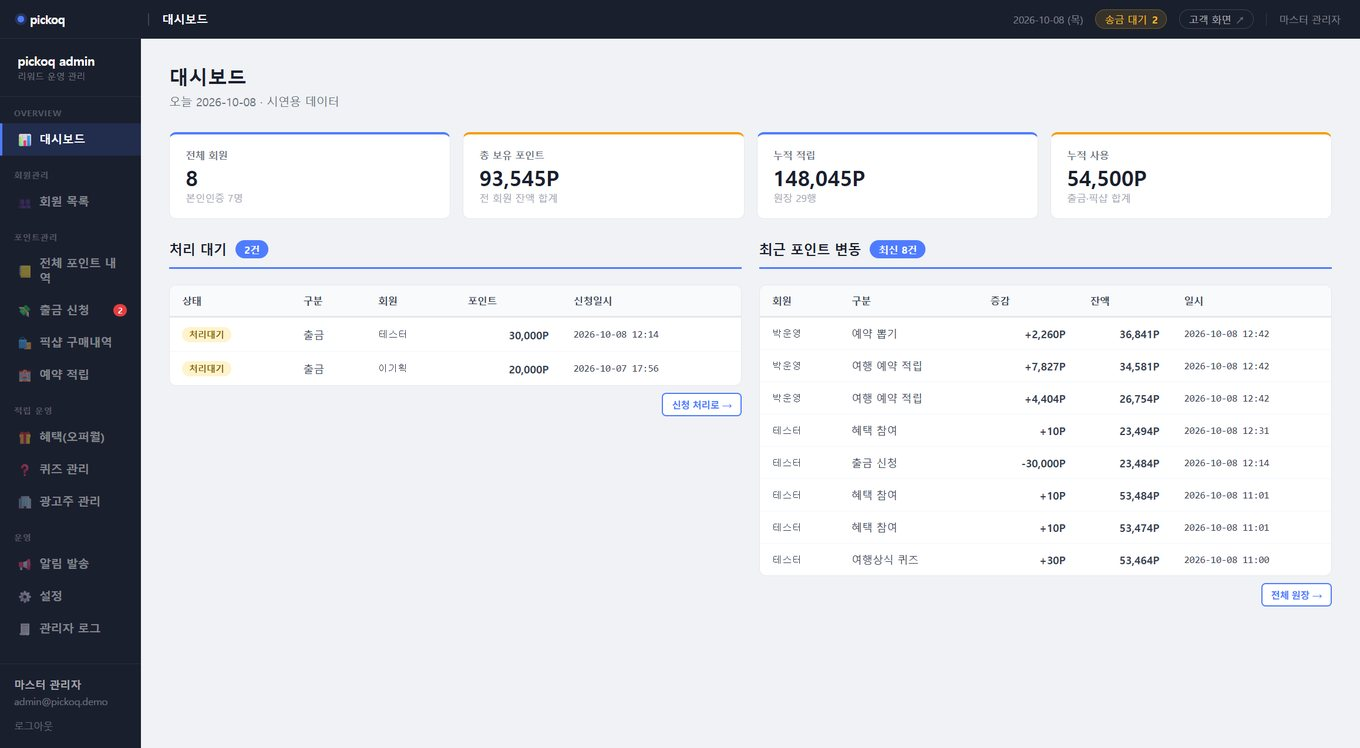
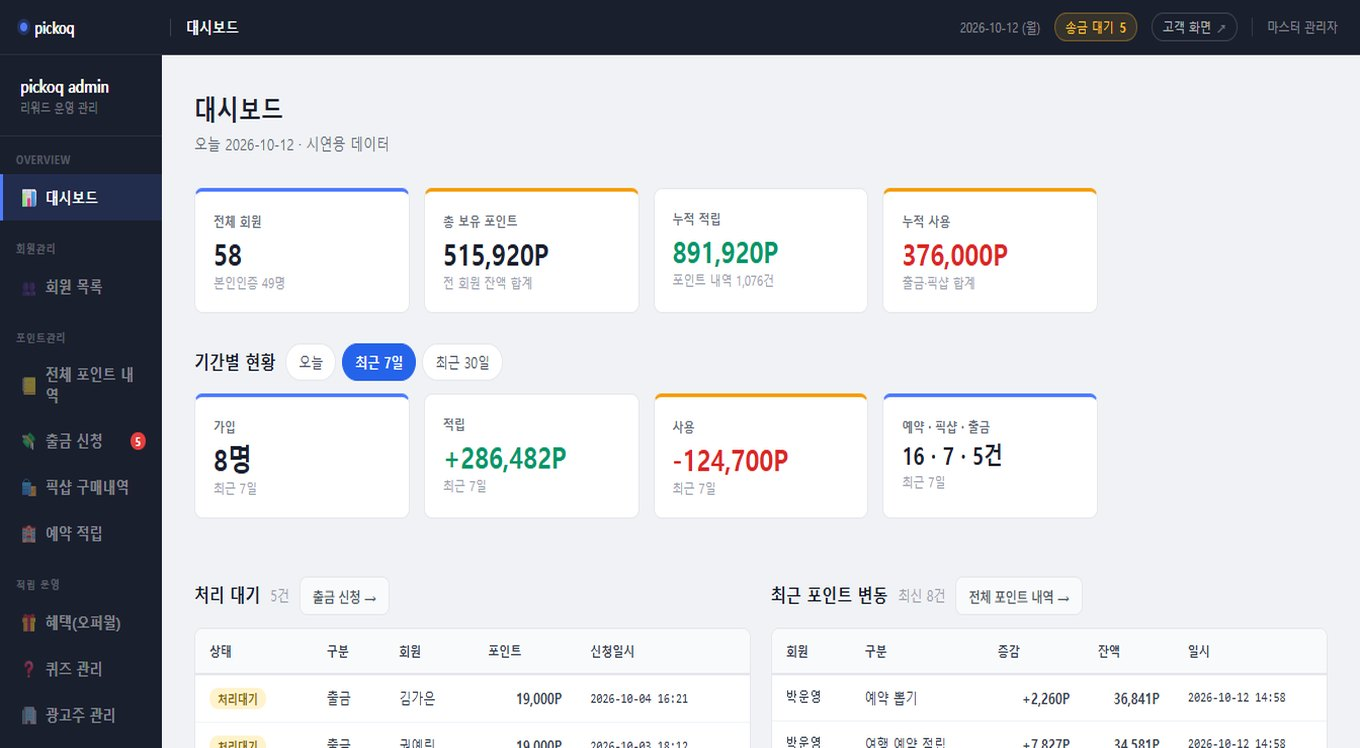
@ update: 어드민 기능정책서 10/12 구현 상태 반영 · 캡처 17장 교체
- 캡처에 남아 있던 계좌번호 가림 (출금 테이블은 치환 대상에서 빠져 있었음)
- 공통 규칙 신설 — 찾기 · 안내 띠 · 요약 3칸 · 불러오는 중
- 출금 반려, 퀴즈 출제여부 3단계, 픽샵 사용완료, 체크인/아웃 반영
- 캡처 a16 로그인 안내 · a17 출금 반려 추가
- 제휴사명을 일반어로 변경
- .gitignore 신설 — DB · API 키가 딸려 올라가지 않도록

@

diff --git a/guide/admin.html b/guide/admin.html
@@ -46,8 +46,8 @@
     고객앱과 마찬가지로 <b>정책</b>과 <b>이유</b>를 함께 담았습니다.
   </p>
   <div class="meta">
-    <span>기준 <b>2026-10-08 구현 상태</b></span>
-    <span>화면 <b>14장</b></span>
+    <span>기준 <b>2026-10-12 구현 상태</b></span>
+    <span>화면 <b>17장</b></span>
     <span>기능 <b>16개</b></span>
     <span>작성 <b>PO 윤성균</b></span>
   </div>
@@ -69,7 +69,39 @@
       <td>아직 정하지 못했습니다.</td></tr>
   </table>
 
-  <h3>② 어드민에서 쓰는 상태값</h3>
+  <h3>② 모든 화면에 공통인 것</h3>
+  <p class="s-lead" style="margin:0 0 14px">
+    아래 네 가지는 <b>거의 모든 화면에 같은 모양으로</b> 들어가 있습니다.
+    화면마다 다시 설명하지 않고 여기에 한 번만 적습니다.
+  </p>
+  <table>
+    <tr><th style="width:150px">무엇</th><th>어떻게 동작하나</th></tr>
+    <tr><td><b>찾기</b></td>
+      <td>왼쪽에 <b>전체 건수</b>, 오른쪽에 <b>찾는 칸</b>이 놓입니다.
+        칸마다 이름이 작게 위에 붙습니다.
+        <b>쳐서 찾는 칸</b>과 <b>골라서 거르는 칸</b>을 나눠 두었고,
+        날짜가 둘 이상인 화면은 <b>어느 날짜로 찾을지 먼저 고른 뒤</b> 달력을 엽니다.
+        조건을 다 고른 다음 <b>[조회]</b>를 눌러야 걸립니다.</td></tr>
+    <tr><td><b>안내 띠</b></td>
+      <td>제목 바로 아래 띠가 하나 붙습니다. 눌러서 펼치면
+        <b>이번 버전에 들어가지 않은 것과 그 이유</b>가 나오고,
+        끝에 이 문서로 오는 링크가 있습니다.
+        공지·참고 사항도 <b>같은 모양</b>으로 통일했습니다.</td></tr>
+    <tr><td><b>요약 세 칸</b></td>
+      <td>화면 위쪽 요약은 어디서나 <b>총 누적 · 사용(나간 것) · 잔여(아직 남은 것)</b>
+        같은 뜻의 세 칸으로 읽습니다. 화면마다 부르는 말은 달라도
+        <b>읽는 방식은 같습니다.</b> 요약은 <b>거르기와 무관하게 전체 기준</b>입니다.</td></tr>
+    <tr><td><b>불러오는 중</b></td>
+      <td>자료를 가져오는 데 <b>0.2초가 넘게 걸릴 때만</b> 자리를 잡는 회색 틀이 나옵니다.
+        그보다 빠르면 아무것도 보이지 않습니다.
+        정말 못 가져온 경우에는 <b>사유와 [다시 시도] 버튼</b>이 나옵니다.</td></tr>
+  </table>
+  <div class="feat-shots wide" style="margin:16px 0 26px">
+    <div class="sw"><a class="shot wide" href="screens/a16_welcome.jpg"><img src="screens/a16_welcome.jpg" alt="로그인 직후 안내 — 이번 버전의 범위를 먼저 알려 줍니다"></a>
+      <div class="cap">로그인하면 먼저 뜨는 안내 — 이번 버전의 범위를 미리 알려 줍니다</div></div>
+  </div>
+
+  <h3>③ 어드민에서 쓰는 상태값</h3>
   <table>
     <tr><th style="width:150px">배지</th><th style="width:190px">어디서</th><th>뜻</th></tr>
     <tr><td><span class="st wait">처리대기</span></td><td>출금 신청</td>
@@ -112,14 +144,22 @@
       <div class="feat-t">오늘의 숫자와 처리 대기</div></div>
     <div class="feat-row"><div class="feat-k">정책</div><div class="feat-v">
       회원 수 · 오늘 적립 · 오늘 사용 · 전체 포인트 잔액을 보여주고,
-      그 아래에 <b>처리하지 않은 출금·픽샵 신청</b>과 <b>최근 예약</b>을 놓습니다.
+      그 아래에 <b>처리하지 않은 출금·픽샵 신청</b>과
+      <b>최근 포인트 내역 · 픽샵 구매 · 예약 적립</b>을 놓습니다.
+      목록은 모두 <b>8건씩</b>으로 맞췄습니다.
       왼쪽 메뉴의 「출금 신청」에는 <b>대기 건수가 빨간 숫자</b>로 붙습니다.
+      <ul>
+        <li><b>기간을 바꿔 볼 수 있습니다</b> — <b>최근 1일 · 7일 · 30일</b>.
+          적립·사용·신규 회원이 그 기간 기준으로 다시 계산됩니다.</li>
+      </ul>
     </div></div>
     <div class="feat-row"><div class="feat-k why">이유</div><div class="feat-v">
       운영자가 매일 아침 확인해야 하는 것은 두 가지입니다.
       <b>전일 집행 비용</b>과 <b>미처리 건의 유무</b>입니다.
       이 두 가지를 확인하기 위해 여러 메뉴를 거쳐야 한다면 누락이 발생합니다.
       <b>대기 건수를 메뉴에 붙인 것</b>도 같은 이유입니다 — 메뉴에 진입하지 않아도 확인할 수 있습니다.
+      <b>기간 선택을 둔 것</b>은 하루치만 보면 그날이 많은 날인지 적은 날인지 알 수 없기 때문입니다.
+      <b>비교할 기준이 있어야 숫자가 뜻을 갖습니다.</b>
     </div></div>
     <div class="feat-shots wide">
       <div class="sw"><a class="shot wide" href="screens/a01_dash.jpg"><img src="screens/a01_dash.jpg" alt="대시보드 — 오늘의 숫자 · 처리 대기 · 최근 예약"></a>
@@ -266,7 +306,10 @@
       <div class="feat-t">찾아보기</div></div>
     <div class="feat-row"><div class="feat-k">정책</div><div class="feat-v">
       <b>유형별로 거르고</b>(출석·퀴즈·혜택·예약·뽑기·친구 추천·출금·픽샵·관리자 지급·소멸),
-      회원 이메일이나 내용으로 검색할 수 있습니다. 페이지를 나눠 보여줍니다.
+      회원 이메일이나 내용으로 찾을 수 있습니다.
+      <b>기간</b>도 달력으로 지정할 수 있고, 어느 날짜(일시 / 소멸예정)를 기준으로
+      볼지 먼저 고릅니다. 페이지를 나눠 보여줍니다.
+      위쪽 요약은 <b>총 적립 · 총 사용 · 현재 잔액</b> 세 칸입니다.
       이 화면은 <b>보기만 하고 고치지 않습니다.</b>
     </div></div>
     <div class="feat-row"><div class="feat-k why">이유</div><div class="feat-v">
@@ -293,7 +336,11 @@
     <div class="feat-row"><div class="feat-k">정책</div><div class="feat-v">
       <ul>
         <li>문항 · 정답(O/X) · 해설을 등록합니다. 현재 <b>55문항</b>이 들어 있습니다.</li>
-        <li><b>출제여부</b>를 켜고 끌 수 있습니다. 끈 문항은 나오지 않습니다.</li>
+        <li><b>출제여부</b>를 <b>세 단계</b>로 봅니다 —
+          <b>대기</b>(켜 두었지만 아직 한 번도 안 나감) ·
+          <b>출제중</b>(켜져 있고 나간 적 있음) ·
+          <b>출제완료</b>(꺼 두어 더 이상 안 나감).
+          켜고 끄는 것은 운영자가 합니다.</li>
         <li>문항마다 <b>광고 링크</b>를 붙일 수 있습니다. 해설 아래에 버튼으로 나옵니다.</li>
         <li>엑셀 양식을 받아 <b>한 번에 여러 문항을 올릴</b> 수 있습니다.</li>
         <li>매일 켜져 있는 문항 중 <b>3개를 무작위로</b> 뽑고, 한 번 낸 문제는 당분간 제외합니다.</li>
@@ -302,7 +349,11 @@
     <div class="feat-row"><div class="feat-k why">이유</div><div class="feat-v">
       퀴즈는 <b>자사 비용이 발생하는 기능</b>입니다. 문항이 소진되면 기능이 중단되므로
       운영자가 계속 채울 수 있어야 합니다. 엑셀 업로드를 둔 것도 그래서입니다.<br>
-      <b>문항에 광고를 붙일 수 있게 한 것</b>은, 비용만 발생하는 기능에서 일부라도 수익을 확보하기 위해서입니다.
+      <b>문항에 광고를 붙일 수 있게 한 것</b>은, 비용만 발생하는 기능에서 일부라도 수익을 확보하기 위해서입니다.<br>
+      <b>출제여부를 세 단계로 나눈 것</b>은 켜짐/꺼짐 두 가지로는
+      <b>「한 번이라도 나갔나」</b>밖에 알 수 없기 때문입니다.
+      운영자가 실제로 알고 싶은 것은 <b>아직 안 쓴 새 문항이 얼마나 남았는지</b>와
+      <b>지금 돌고 있는 문항이 몇 개인지</b>입니다.
       <div class="note blue" style="margin-top:10px">
         <b>10/07 운영 방침 변경</b> — 재응시를 폐지해 결과를 <b>0~30P</b>로 두고,
         문항마다 <b>광고를 연결</b>할 수 있도록 했습니다.
@@ -395,14 +446,19 @@
       <div class="feat-t">출금 신청 — 실제 자금이 지출됩니다</div></div>
     <div class="feat-row"><div class="feat-k">정책</div><div class="feat-v">
       신청이 접수되면 <b>포인트는 즉시 차감됩니다.</b> 목록에서 회원·금액·계좌를 확인하고
-      송금한 뒤 <b>[지급완료]</b>를 누릅니다.
+      송금한 뒤 <b>[지급하기]</b>를 누릅니다. 처리대기 건에는 <b>[반려]</b> 버튼도 함께 나옵니다.
       <ul>
-        <li>승인/반려를 고르는 절차는 없습니다. <b>[지급완료]만</b> 있습니다.</li>
+        <li>사전 승인 단계는 없습니다. 처리대기 건을
+          <b>[지급하기]</b> 또는 <b>[반려]</b> 둘 중 하나로 끝냅니다.</li>
         <li><b>사람이 누르는 것은 시연이기 때문입니다.</b>
           실제 운영에서는 <b>송금을 자동으로</b> 처리하고, 어드민은 결과를 확인하는 자리로 바뀝니다
           <span class="ev talk">협의 대상</span>.</li>
-        <li>문제가 있어 되돌려야 하면 <b>반려</b>로 처리하고, 포인트는 <b>자동으로 돌아갑니다.</b></li>
-        <li>지급완료로 바꾸면 고객에게 알림이 갑니다.</li>
+        <li><b>반려할 때는 사유를 고릅니다</b> — 「고객 요청으로 취소」 ·
+          「예금주 이름이 계좌와 다름」 · 「계좌번호 확인 필요」 ·
+          「본인 명의 계좌가 아님」, 그리고 직접 입력.
+          고른 사유는 <b>목록에도 남고 고객에게도 그대로 전달</b>됩니다.</li>
+        <li>반려하면 차감했던 포인트가 <b>회원에게 바로 돌아갑니다.</b></li>
+        <li>지급하기·반려 모두 고객에게 알림이 갑니다.</li>
       </ul>
     </div></div>
     <div class="feat-row"><div class="feat-k why">이유</div><div class="feat-v">
@@ -412,8 +468,10 @@
       대신 <b>송금이라는 실제 행위가 남아 있어</b> 그것을 기록하는 버튼만 둡니다.
     </div></div>
     <div class="feat-shots wide">
-      <div class="sw"><a class="shot wide" href="screens/a05_withdrawals.jpg"><img src="screens/a05_withdrawals.jpg" alt="계좌를 확인하고 송금한 뒤 [지급완료]"></a>
-        <div class="cap">계좌를 확인하고 송금한 뒤 [지급완료]</div></div>
+      <div class="sw"><a class="shot wide" href="screens/a05_withdrawals.jpg"><img src="screens/a05_withdrawals.jpg" alt="계좌를 확인하고 송금한 뒤 [지급하기]"></a>
+        <div class="cap">계좌를 확인하고 송금한 뒤 [지급하기] — 요약은 누적 송금액 · 반려 환불액 · 대기 금액</div></div>
+      <div class="sw"><a class="shot wide" href="screens/a17_wd_reject.jpg"><img src="screens/a17_wd_reject.jpg" alt="반려할 때는 사유를 고릅니다"></a>
+        <div class="cap">[반려] — 사유를 고르면 고객에게 그대로 전달됩니다</div></div>
     </div>
   </div>
 
@@ -425,11 +483,18 @@
       운영자가 평소에 할 일은 없습니다.
       목록에서 <b>쿠폰번호를 다시 발행</b>하거나, 고객이 취소한 건을 확인합니다.
       취소하면 <b>포인트가 돌아가고 재고가 복구</b>됩니다.
+      고객이 쿠폰을 쓰고 <b>[사용 처리]</b>를 누르면 목록에서
+      <span class="st no">사용완료</span>로 바뀝니다.
+      위쪽 요약은 <b>총 구매 · 사용한 금액 · 아직 안 쓴 금액</b> 세 칸이며,
+      <b>취소한 건은 총 구매에서 뺍니다.</b>
     </div></div>
     <div class="feat-row"><div class="feat-k why">이유</div><div class="feat-v">
       픽샵은 <b>포인트로 쿠폰을 바꾸는 것</b>이라 실제 자금 이동이 없습니다.
       승인을 둘 이유가 없습니다.<br>
-      <b>재발행을 둔 것</b>은 고객이 쿠폰번호를 분실하는 사례가 실제로 자주 발생하기 때문입니다.
+      <b>재발행을 둔 것</b>은 고객이 쿠폰번호를 분실하는 사례가 실제로 자주 발생하기 때문입니다.<br>
+      <b>아직 안 쓴 금액을 따로 보는 이유</b>는, 이것이
+      <b>앞으로 쿠폰 업체에 정산해야 할 금액</b>이기 때문입니다.
+      이미 쓴 것과 섞어 두면 <b>남은 채무가 얼마인지</b> 알 수 없습니다.
       <div class="note red" style="margin-top:10px">
         <b>쿠폰을 발행해 줄 업체가 아직 정해지지 않았습니다.</b>
         지금은 번호를 우리가 만들어 보여주고 있습니다.
@@ -444,8 +509,8 @@
   <div class="agree">
     <div class="agree-t">협의 대상 — 이 절에서 PO가 정한 것</div>
     <ul>
-      <li><b>출금에 승인 단계를 두지 않은 것</b> —
-        <span class="now">현재: [지급완료]만</span>.
+      <li><b>출금에 사전 승인 단계를 두지 않은 것</b> —
+        <span class="now">현재: [지급하기] · [반려] 두 갈래</span>.
         금액이 커지면 <b>일정 금액 이상은 승인을 거치게</b> 하는 쪽이 안전할 수 있습니다.</li>
       <li><b>출금 한도 — 최소 10,000P · 1회 100,000P · 1,000P 단위</b> —
         <span class="now">현재 값</span>. 송금 수수료와 세무 처리 기준에 맞춰 다시 볼 필요가 있습니다.</li>
@@ -472,7 +537,9 @@
       <div class="feat-t">예약별 적립 현황</div></div>
     <div class="feat-row"><div class="feat-k">정책</div><div class="feat-v">
       회원 · 호텔 · 예약처 · 금액 · <b>예약처가 주는 적립률</b> ·
-      <b>기본 적립</b> · <b>뽑기로 받은 금액</b> · 상태를 보여줍니다.
+      <b>기본 적립</b> · <b>뽑기로 받은 금액</b> · <b>숙박일(체크인~체크아웃)</b> ·
+      상태를 보여줍니다. 숙박일로도 찾을 수 있고,
+      <b>숙박일 기준과 적립일 기준 중 골라</b> 기간을 겁니다.
       <span class="st ok">적립완료</span> <span class="st no">취소</span> 둘로만 구분합니다 —
       <b>「적립예정」 단계는 두지 않습니다.</b> 뽑기는 <b>안 뽑음 / 뽑음</b>으로 나눠 봅니다.
     </div></div>
@@ -481,7 +548,11 @@
       그래서 <b>수취 금액과 지급 금액이 일치하는지</b> 확인할 수 있어야 합니다.<br>
       <b>뽑지 않은 금액(미수령액)</b>을 따로 보는 이유는, 이게
       <b>비용 절감인 동시에 고객이 수령하지 못한 금액</b>이기 때문입니다.
-      이 수치가 계속 증가하면 뽑기 안내가 충분하지 않다는 의미입니다.
+      이 수치가 계속 증가하면 뽑기 안내가 충분하지 않다는 의미입니다.<br>
+      <b>숙박일을 함께 보는 이유</b>는 적립이 확정되는 시점이
+      <b>예약한 날이 아니라 숙박을 마친 뒤</b>이기 때문입니다.
+      예약처가 보내 주는 자료에도 체크인·체크아웃 날짜가 담겨 있어
+      <b>대조할 기준</b>이 됩니다.
     </div></div>
     <div class="feat-shots wide">
       <div class="sw"><a class="shot wide" href="screens/a07_bookings.jpg"><img src="screens/a07_bookings.jpg" alt="적립률 · 기본 적립 · 뽑기로 받은 금액 · 상태"></a>
@@ -491,7 +562,7 @@
 
 
   <div class="note blue">
-    <b>실제 운영에서는 호텔스컴바인이 예약 결과를 알려줍니다.</b>
+    <b>실제 운영에서는 예약처(제휴 메타서치)가 예약 결과를 알려줍니다.</b>
     시연에서는 고객이 아웃링크 화면에서 [예약 완료 처리]를 눌러 만들고 있습니다.
     실제 연동 시에는 <b>확정까지 수개월</b>이 걸리고 <b>누락되는 건도 있습니다.</b>
   </div>
@@ -624,7 +695,7 @@
     적립·사용 수치 자체는 <a href="front.html#s10">고객앱 기능정책서</a>에 정리되어 있습니다.
   </p>
 
-  <h3>운영 방침으로 정리한 것</h3>
+  <h3>④ 운영 방침으로 정리한 것</h3>
   <table>
     <tr><th style="width:190px">항목</th><th style="width:150px">현재 운영</th><th>내용</th></tr>
     <tr>
@@ -649,7 +720,7 @@
     </tr>
   </table>
 
-  <h3>어드민에서 바꿀 수 있는 값</h3>
+  <h3>⑤ 어드민에서 바꿀 수 있는 값</h3>
   <table>
     <tr><th style="width:190px">항목</th><th style="width:150px">현재</th><th>비고</th></tr>
     <tr><td>혜택 노출기간</td><td><b>비우면 제한 없음</b></td>
@@ -662,7 +733,7 @@
       <td>시연 중 테스트 계정을 자유롭게 만들기 위해 풀어 두었습니다</td></tr>
   </table>
 
-  <h3>아직 정하지 못한 것</h3>
+  <h3>⑥ 아직 정하지 못한 것</h3>
   <table>
     <tr><th style="width:190px">항목</th><th>상태</th></tr>
     <tr><td><b>쿠폰 발행 업체</b></td>
@@ -673,7 +744,7 @@
       <td>정책적으로 더 보완이 필요합니다. <b>누가 얼마까지</b> 줄 수 있는지(권한·한도),
         어떤 사유를 인정할지, <b>누가 처리했는지를 어떻게 남길지</b>가 아직 없습니다.</td></tr>
     <tr><td><b>출금·쿠폰 발행 자동화</b></td>
-      <td>지금은 출금을 <b>운영자가 [지급완료]를 눌러</b> 처리합니다. 시연을 보여주기 위한 구조이고,
+      <td>지금은 출금을 <b>운영자가 [지급하기]를 눌러</b> 처리합니다. 시연을 보여주기 위한 구조이고,
         실제 운영에서는 <b>자동 송금</b>으로 바꿀 예정입니다. 자동화 범위와 예외 처리 기준이 필요합니다.</td></tr>
     <tr><td><b>어드민 권한 구분</b></td>
       <td>현재는 <b>비밀번호 하나</b>로 모두 접근합니다.
@@ -684,7 +755,7 @@
   </table>
 
   <div class="note blue">
-    <b>이 설명서는 2026-10-08 구현 상태를 기준으로 작성했습니다.</b>
+    <b>이 설명서는 2026-10-12 구현 상태를 기준으로 작성했습니다.</b>
     위 표의 항목은 시연 이후 확정해 운영 기준에 반영할 예정입니다.
   </div>
 </section>
